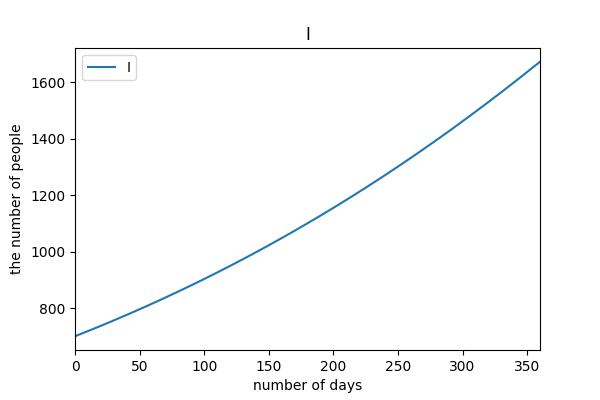
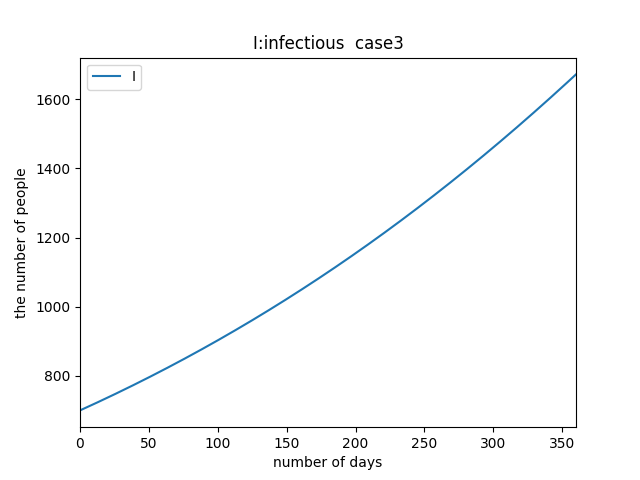
fix: for easy execution.

diff --git a/COVID19_Modeling.py b/COVID19_Modeling.py
@@ -3,73 +3,103 @@ import numpy as np
 from scipy.integrate import odeint
 import COVID19_SIQR as siqr
 
-def susceptible(result):
+def susceptible(result, casename:str):
     S = [result[i][0] for i in range(36000)]
     plt.figure(dpi=100)
     plt.plot(times, S,label="S")
-    plt.title("S:susceptible")
+    plt.title(f"S:susceptible  {casename}")
     plt.xlabel('number of days')
     plt.ylabel('the number of people')
     plt.legend()
-    #plt.savefig("pic/newSIQR-S-case5.png")
+    plt.savefig(f"pic/newSIQR-S-{casename}.png")
     #plt.show()
-    print(S[0] - S[100*30])
-    print(S[100*30])
+    print("30日間の新規感染者数: ", S[0] - S[100*30])
+    print("30日後の未感染者数: ",S[100*30])
 
-def infectious(result):
+def infectious(result, casename:str):
     I = [result[i][1] for i in range(36000)]
     plt.figure(dpi=100)
     plt.plot(times, I,label="I")
     plt.xlim(0,360)
+    plt.title(f"I:infectious  {casename}")
     plt.xlabel('number of days')
     plt.ylabel('the number of people')
-    plt.title("I:infectious")
     plt.legend()
-    #plt.savefig("pic/newSIQR-I-case5.png")
+    plt.savefig(f"pic/newSIQR-I-{casename}.png")
     #plt.show()
-    print("30日後の感染者:",I[100*30])
+    print("30日後の感染者: ",I[100*30])
 
 
 
-def quarantine(result):
+def quarantine(result, casename:str):
     Q = [result[i][2] for i in range(36000)]
     plt.figure(dpi=100)
     plt.plot(times, Q,label="Q")
-    plt.title("Q:quarantine")
+    plt.title(f"Q:quarantine  {casename}")
     plt.xlabel('number of days')
     plt.ylabel('the number of people')
     plt.legend()
-    #plt.savefig("pic/newSIQR-Q-case5.png")
+    plt.savefig(f"pic/newSIQR-Q-{casename}.png")
     #plt.show()
-    print("30日後の隔離者",Q[100*30])
+    print("30日後の隔離者: ",Q[100*30])
 
 
 
-
-def recovery(result):
+def recovery(result, casename:str):
     R = [result[i][3] for i in range(36000)]
     plt.figure(dpi=100)
     plt.plot(times, R,label="R")
-    plt.title("R:recovery")
+    plt.title(f"R:recovery  {casename}")
     plt.xlabel('number of days')
     plt.ylabel('the number of people')
     plt.legend()
-    #plt.savefig("pic/newSIQR-R-case5.png")
+    plt.savefig(f"pic/newSIQR-R-{casename}.png")
     #plt.show()
-    print("30日後の快復者/死亡者",R[100*30])
+    print("30日後の快復者/死亡者: ",R[100*30])
+    
 
 if __name__ == "__main__":
+    case1 = {
+        'beta_const': 0.126/10000000, # 接触率
+        'p': 0.01,                    # 陽性者隔離率
+        'name': 'case1'
+    }
+    case2 = {
+        'beta_const': 0.126/10000000, # 接触率
+        'p': 0.05,                    # 陽性者隔離率
+        'name': 'case2'
+    }
+    case3 = {
+        'beta_const': 0.096/10000000, # 接触率
+        'p': 0.01,                    # 陽性者隔離率
+        'name': 'case3'
+    }
+    case4 = {
+        'beta_const': 0.096/10000000, # 接触率
+        'p': 0.05,                    # 陽性者隔離率
+        'name': 'case4'
+    }
+    case5 = {
+        'beta_const': 0.126/10000000, # 接触率
+        'p': 0.08,                    # 陽性者隔離率
+        'name': 'case5'
+    }
     t_max = 360
     dt = 0.01
-    beta_const = 0.126/10000000
     gamma_const = 1/12
     gamma_dash_const = 1/10
-    p = 0.08
     times =np.arange(0,t_max, dt)
-    R0,result= siqr.calc_proc(times, beta_const, gamma_const, gamma_dash_const, p)
-    siqr.plot(R0,p,times,result)
-    susceptible(result)
-    infectious(result)
-    quarantine(result)
-    recovery(result)
-    plt.show()
+    results = {}
+    for index, item in enumerate([case1, case2, case3, case4, case5]):
+        print(f'\n ===== case{index+1} ===== \n')
+        R0,result= siqr.calc_proc(times, item['beta_const'], gamma_const, gamma_dash_const, item['p'])
+        results[index] = {'R0': R0, 'result': result}
+    for index, item in enumerate([case1, case2, case3, case4, case5]):
+        print(f'\n ===== case{index+1} ===== \n')
+        siqr.plot(results[index]['R0'], item['p'], times, results[index]['result'], item['name'])
+        susceptible(results[index]['result'], item['name'])
+        infectious(results[index]['result'], item['name'])
+        quarantine(results[index]['result'], item['name'])
+        recovery(results[index]['result'], item['name'])
+        plt.show()
+    

diff --git a/COVID19_SIQR.py b/COVID19_SIQR.py
@@ -85,7 +85,7 @@ def calc_proc(times, beta_const, gamma_const, gamma_dash_const, p):
     return R0,result
 
 
-def plot(R0, p, times, result):
+def plot(R0, p, times, result, casename:str):
     str_out = "basic rate of reproduction : {}".format(format(R0, ".3f"))
     str_out += "  "
     str_out += "Isolation rate : {}".format(format(p, ".3f"))
@@ -96,7 +96,7 @@ def plot(R0, p, times, result):
     plt.ylim(0,10000000)
     plt.plot(times, result)
     plt.legend(['uninfected person','Infection Non-isolator','Infection Quarantine','recuperator'])
-    #plt.savefig("pic/newSIQR-case5.png")
+    plt.savefig(f"pic/newSIQR-{casename}.png")
     #plt.show()
 
 
